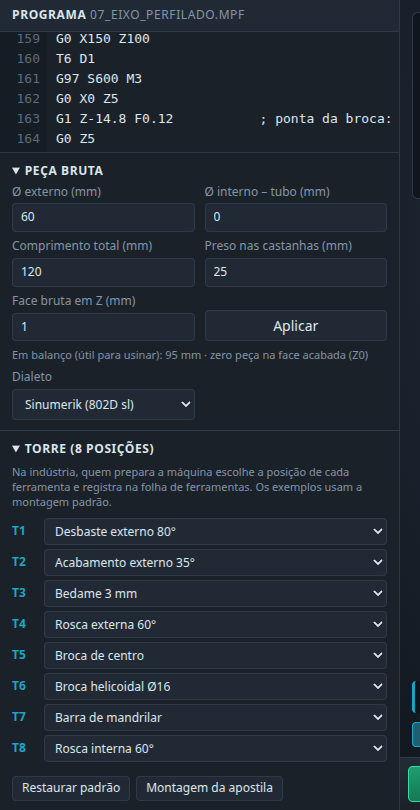
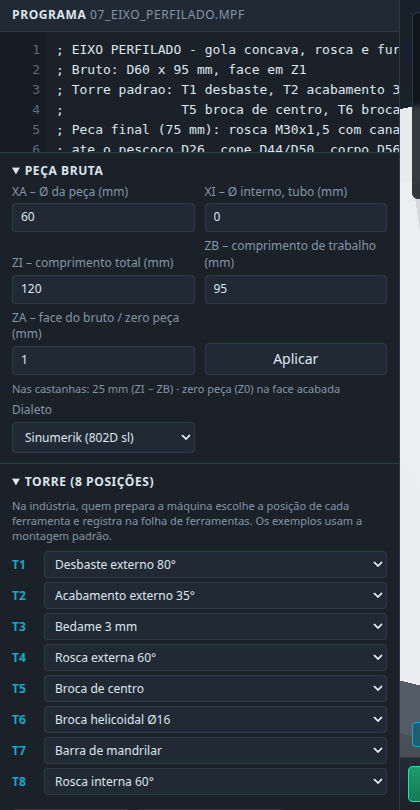
Peça bruta com os campos do SinuTrain (XA, XI, ZI, ZB, ZA)
O comprimento de trabalho (ZB, fora das castanhas) é digitado direto,
como no SinuTrain; o trecho preso na placa é calculado (ZI - ZB).
Significado do WORKPIECE confirmado por alunos.

diff --git a/shared/i18n.js b/shared/i18n.js
@@ -88,17 +88,17 @@ const pt = {
   modified: 'modificado',
   read_only_example: 'exemplo – salve com outro nome para guardar alterações',
   stock: 'Peça bruta',
-  stock_d: 'Ø externo (mm)',
-  stock_di: 'Ø interno – tubo (mm)',
-  stock_di_help: 'Diâmetro do furo do tubo. 0 = barra maciça',
-  stock_t: 'Comprimento total (mm)',
-  stock_c: 'Preso nas castanhas (mm)',
-  stock_c_help: 'Quanto do bruto fica dentro da placa. A ferramenta não pode passar daí (colisão com a placa)',
-  stock_f: 'Face bruta em Z (mm)',
-  stock_f_help: 'Sobremetal na face. O zero peça (Z0) é a face acabada; a face do bruto fica em Z+este valor',
-  stock_info: 'Em balanço (útil para usinar): {len} mm · zero peça na face acabada (Z0)',
+  stock_d: 'XA – Ø da peça (mm)',
+  stock_di: 'XI – Ø interno, tubo (mm)',
+  stock_di_help: 'Diâmetro do furo do tubo ("PIPE" no SinuTrain). 0 = barra maciça ("CYLINDER")',
+  stock_t: 'ZI – comprimento total (mm)',
+  stock_b: 'ZB – comprimento de trabalho (mm)',
+  stock_b_help: 'Quanto do bruto fica fora das castanhas (útil para usinar). O resto fica preso na placa; passar dele é colisão com a placa',
+  stock_f: 'ZA – face do bruto / zero peça (mm)',
+  stock_f_help: 'Onde fica a face do bruto. O zero peça (Z0) é a face acabada: ZA = 2 deixa 2 mm de sobremetal para facear',
+  stock_info: 'Nas castanhas: {clamp} mm (ZI − ZB) · zero peça (Z0) na face acabada',
   stock_bad: 'Peça bruta inválida: {msg}',
-  stock_bad_len: 'o comprimento em balanço (total − castanhas) precisa ficar entre 10 e 300 mm',
+  stock_bad_len: 'o comprimento de trabalho (ZB) precisa ficar entre 10 e 300 mm e deixar de 5 a 100 mm nas castanhas (ZI − ZB)',
   stock_bad_bore: 'o Ø interno precisa ser menor que o Ø externo (parede de pelo menos 1 mm)',
   ruler_ext: 'Ø ext',
   ruler_int: 'Ø int',
@@ -322,17 +322,17 @@ const en = {
   modified: 'modified',
   read_only_example: 'example – save under another name to keep changes',
   stock: 'Stock',
-  stock_d: 'Outer Ø (mm)',
-  stock_di: 'Inner Ø – tube (mm)',
-  stock_di_help: 'Bore of the tube. 0 = solid bar',
-  stock_t: 'Total length (mm)',
-  stock_c: 'Held in the jaws (mm)',
-  stock_c_help: 'How much of the stock is inside the chuck. The tool cannot go past it (chuck collision)',
-  stock_f: 'Raw face at Z (mm)',
-  stock_f_help: 'Face allowance. Work zero (Z0) is the finished face; the raw face is at Z+this value',
-  stock_info: 'Overhang (machinable): {len} mm · work zero at the finished face (Z0)',
+  stock_d: 'XA – part Ø (mm)',
+  stock_di: 'XI – inner Ø, tube (mm)',
+  stock_di_help: 'Bore of the tube ("PIPE" in SinuTrain). 0 = solid bar ("CYLINDER")',
+  stock_t: 'ZI – total length (mm)',
+  stock_b: 'ZB – working length (mm)',
+  stock_b_help: 'How much of the stock sticks out of the jaws (machinable). The rest is held in the chuck; going past it is a chuck collision',
+  stock_f: 'ZA – raw face / work zero (mm)',
+  stock_f_help: 'Where the raw face is. Work zero (Z0) is the finished face: ZA = 2 leaves 2 mm to face off',
+  stock_info: 'In the jaws: {clamp} mm (ZI − ZB) · work zero (Z0) at the finished face',
   stock_bad: 'Invalid stock: {msg}',
-  stock_bad_len: 'the overhang (total − jaws) must be between 10 and 300 mm',
+  stock_bad_len: 'the working length (ZB) must be between 10 and 300 mm and leave 5 to 100 mm in the jaws (ZI − ZB)',
   stock_bad_bore: 'the inner Ø must be smaller than the outer Ø (wall of at least 1 mm)',
   ruler_ext: 'Ø out',
   ruler_int: 'Ø in',

diff --git a/public/js/main.js b/public/js/main.js
@@ -452,17 +452,18 @@ const clampNum = (v, min, max, def) => {
 
 /**
  * Lê os campos da peça bruta. O modelo usa o comprimento em balanço (length);
- * na tela o aluno informa o total e quanto fica preso, como no SinuTrain.
+ * na tela o aluno informa, como no SinuTrain: XA (Ø), XI (tubo), ZI (total), ZB (de trabalho,
+ * fora das castanhas) e ZA (face do bruto); o trecho preso na placa é ZI − ZB.
  * Devolve { params } ou { error } (chave de tradução).
  */
 function readStockInputs() {
   const diameter = clampNum($('stockD').value, 5, 200, 50);
   const bore = clampNum($('stockDi').value, 0, 190, 0);
   const total = clampNum($('stockT').value, 15, 400, 105);
-  const clamp = clampNum($('stockC').value, 5, 100, 25);
+  const length = clampNum($('stockB').value, 0, 400, 80);
   const faceZ = clampNum($('stockF').value, 0, 10, 0);
-  const length = total - clamp;
-  if (length < 10 || length > 300) return { error: 'stock_bad_len' };
+  const clamp = total - length;
+  if (length < 10 || length > 300 || clamp < 5 || clamp > 100) return { error: 'stock_bad_len' };
   if (bore > 0 && bore > diameter - 2) return { error: 'stock_bad_bore' };
   const params = { diameter, length, faceZ, clamp };
   if (bore > 0) params.bore = bore;
@@ -474,14 +475,14 @@ function setStockInputs(s) {
   $('stockD').value = s.diameter;
   $('stockDi').value = s.bore || 0;
   $('stockT').value = s.length + clamp;
-  $('stockC').value = clamp;
+  $('stockB').value = s.length;
   $('stockF').value = s.faceZ;
   updateStockInfo();
 }
 
 function updateStockInfo() {
   const { params, error } = readStockInputs();
-  $('stockInfo').textContent = error ? tr('stock_bad', { msg: tr(error) }) : tr('stock_info', { len: fmtNum(params.length) });
+  $('stockInfo').textContent = error ? tr('stock_bad', { msg: tr(error) }) : tr('stock_info', { clamp: fmtNum(params.clamp) });
   $('stockInfo').classList.toggle('err', !!error);
 }
 
@@ -502,9 +503,8 @@ function announceWorkpiece(st) {
 function sameStock(a, b) {
   if (!a || !b) return false;
   const eq = (x, y) => Math.abs((x || 0) - (y || 0)) < 1e-6;
-  const clampA = Math.min(100, Math.max(5, a.clamp ?? 25));
   return eq(a.diameter, b.diameter) && eq(a.bore, b.bore) && eq(a.faceZ, b.faceZ) &&
-    eq(clampA, b.clamp) && eq(a.length + (a.clamp ?? 25) - clampA, b.length);
+    eq(a.clamp ?? 25, b.clamp) && eq(a.length, b.length);
 }
 
 function applyStock() {
@@ -530,7 +530,8 @@ function stockFromHeaderInputs(code, announce = true) {
   const st = stockFromProgram(code);
   if (!st) return false;
   if (announce) announceWorkpiece(st);
-  const clamp = st.clamp ?? clampNum($('stockC').value, 5, 100, 25);
+  // sem o trecho preso no programa ("; Bruto: D50 x 80"), mantém o que está na tela (ZI − ZB)
+  const clamp = st.clamp ?? (readStockInputs().params?.clamp ?? 25);
   setStockInputs({
     diameter: st.diameter,
     bore: st.bore || 0,
@@ -799,7 +800,7 @@ $('chkRulers').onchange = (e) => {
   rulers.setEnabled(e.target.checked);
   saveSettings({ rulers: e.target.checked });
 };
-for (const id of ['stockD', 'stockDi', 'stockT', 'stockC', 'stockF']) $(id).addEventListener('input', updateStockInfo);
+for (const id of ['stockD', 'stockDi', 'stockT', 'stockB', 'stockF']) $(id).addEventListener('input', updateStockInfo);
 $('chkSection').onchange = (e) => {
   scene.setSection(e.target.checked);
   saveSettings({ section: e.target.checked });

diff --git a/test/e2e/simulator.spec.js b/test/e2e/simulator.spec.js
@@ -103,20 +103,20 @@ test('peça bruta lida do cabeçalho do programa', async ({ page }) => {
   await page.selectOption('#programSelect', 'ex:03_bola_fanuc.nc');
   await page.click('#btnOpen');
   await expect(page.locator('#stockD')).toHaveValue('40');
-  // o cabeçalho dá o comprimento em balanço (80); na tela: total = 80 + 25 nas castanhas
+  // o cabeçalho dá o comprimento de trabalho (ZB = 80); total ZI = 80 + 25 nas castanhas
   await expect(page.locator('#stockT')).toHaveValue('105');
-  await expect(page.locator('#stockC')).toHaveValue('25');
+  await expect(page.locator('#stockB')).toHaveValue('80');
   await expect(page.locator('#stockDi')).toHaveValue('0');
-  await expect(page.locator('#stockInfo')).toContainText('Em balanço (útil para usinar): 80 mm');
+  await expect(page.locator('#stockInfo')).toContainText('Nas castanhas: 25 mm');
 });
 
-test('peça bruta: tubo e comprimento preso nas castanhas', async ({ page }) => {
+test('peça bruta: tubo e comprimento de trabalho (ZB)', async ({ page }) => {
   await page.locator('details.settings summary').first().click();
   await page.fill('#stockD', '50');
   await page.fill('#stockDi', '20');
   await page.fill('#stockT', '90');
-  await page.fill('#stockC', '30');
-  await expect(page.locator('#stockInfo')).toContainText('60 mm');
+  await page.fill('#stockB', '60');
+  await expect(page.locator('#stockInfo')).toContainText('Nas castanhas: 30 mm');
   await page.click('#btnApplyStock');
   // barra de mandrilar direto no tubo, sem furar antes
   await setCode(page, 'G18 G90 G95 DIAMON\nT7 D1\nG97 S800 M3\nG0 X22 Z2\nG1 Z-20 F0.1\nG0 Z5\nG0 X150 Z100\nM30');
@@ -232,7 +232,7 @@ N170 M2`);
   // a peça bruta veio do WORKPIECE
   await expect(page.locator('#stockD')).toHaveValue('82.55');
   await expect(page.locator('#stockT')).toHaveValue('120');
-  await expect(page.locator('#stockC')).toHaveValue('20');
+  await expect(page.locator('#stockB')).toHaveValue('100');
   const msgs = page.locator('#messages');
   await expect(msgs).toContainText('Peça bruta do WORKPIECE: Ø82.55');
   await expect(msgs).toContainText('Avanço F0.02 abaixo do usual para T1');

diff --git a/public/index.html b/public/index.html
@@ -77,7 +77,7 @@
           </datalist>
           <label data-i18n-title="stock_di_help"><span data-i18n="stock_di"></span><input id="stockDi" type="number" min="0" max="190" step="any" value="0" /></label>
           <label><span data-i18n="stock_t"></span><input id="stockT" type="number" min="15" max="400" step="any" value="105" /></label>
-          <label data-i18n-title="stock_c_help"><span data-i18n="stock_c"></span><input id="stockC" type="number" min="5" max="100" step="any" value="25" /></label>
+          <label data-i18n-title="stock_b_help"><span data-i18n="stock_b"></span><input id="stockB" type="number" min="10" max="300" step="any" value="80" /></label>
           <label data-i18n-title="stock_f_help"><span data-i18n="stock_f"></span><input id="stockF" type="number" min="0" max="10" step="0.5" value="1" /></label>
           <button id="btnApplyStock" class="btn" data-i18n="apply"></button>
           <div class="stock-info" id="stockInfo"></div>

diff --git a/shared/gcode.js b/shared/gcode.js
@@ -522,7 +522,8 @@ export function parseProgram(text, options = {}) {
  * Devolve { diameter, length (em balanço), faceZ, clamp, bore?, total } ou null.
  * Ex. de aluno: WORKPIECE(,,,"CYLINDER",0,2,120,100,82.55) -> Ø82,55, face em Z2,
  * 120 mm de bruto, 100 mm usináveis (20 mm na placa).
- * A interpretação de ZI/ZB positivos como comprimentos ainda deve ser conferida num SinuTrain.
+ * Confirmado por alunos (2026-11-11): XA = Ø da peça, ZA = zero peça (face do bruto),
+ * ZI = comprimento total, ZB = comprimento de trabalho (fora das castanhas).
  */
 export function parseWorkpiece(text) {
   const m = String(text).match(/WORKPIECE\s*\((.*)\)/i);

diff --git a/README.md b/README.md
@@ -10,10 +10,10 @@ G-code, aperta **Cycle Start** e vê a ferramenta usinando a peça em 3D (Three.
 | ![Bucha pronta na vista Lateral: réguas Z e Ø, leitura dos diâmetros e cota entre duas faces](docs/img/reguas-lateral.png) | ![Eixo perfilado pronto em 3D com meio corte, mostrando a gola e o furo](docs/img/peca-pronta.png) |
 | Passe o mouse para ler Z, Ø externo e Ø interno; clique para medir comprimentos. | Ao separar a peça no corte, ela aparece sozinha em destaque. |
 
-<img src="docs/img/bruto-e-torre.png" alt="Painéis da peça bruta (Ø, tubo, comprimento total, castanhas) e da torre de 8 posições" width="300" align="right">
+<img src="docs/img/bruto-e-torre.png" alt="Painéis da peça bruta (XA, XI, ZI, ZB, ZA) e da torre de 8 posições" width="300" align="right">
 
-**Peça bruta e torre configuráveis:** Ø externo (com bitolas em polegadas), tubo, comprimento total
-e preso nas castanhas; torre de 8 posições com a montagem padrão ou a da apostila do curso.
+**Peça bruta e torre configuráveis:** os mesmos campos do SinuTrain (XA, XI, ZI, ZB, ZA), com
+bitolas em polegadas; torre de 8 posições com a montagem padrão ou a da apostila do curso.
 O programa também pode definir a peça com `WORKPIECE(...)`, como no SinuTrain.
 
 <br clear="right">
@@ -161,11 +161,20 @@ clique para fixar uma referência e medir a distância até outro ponto (ΔZ).
 
 ### Peça bruta
 
-Em "Peça bruta": Ø externo, Ø interno (tubo; 0 = barra maciça), comprimento total, comprimento preso
-nas castanhas e face bruta em Z (sobremetal; o zero peça é a face acabada, Z0). O comprimento em
-balanço (total − castanhas) é o útil para usinar; passar dele é colisão com a placa.
+Em "Peça bruta", os mesmos campos do SinuTrain:
 
-O cabeçalho do programa ajusta a peça bruta ao abrir. O segundo número é o comprimento **em balanço**:
+| Campo | Significado |
+|---|---|
+| **XA** | Ø da peça |
+| **XI** | Ø interno do tubo (0 = barra maciça) |
+| **ZI** | Comprimento total do bruto |
+| **ZB** | Comprimento de trabalho (fora das castanhas); passar dele é colisão com a placa |
+| **ZA** | Face do bruto; o zero peça (Z0) é a face acabada (ZA = 2 deixa 2 mm para facear) |
+
+O trecho preso na placa é ZI − ZB.
+
+O programa também ajusta a peça bruta: com `WORKPIECE(,,,"CYLINDER",0,ZA,ZI,ZB,XA)` (ou `"PIPE"` com XI),
+como no SinuTrain, ou com um comentário cujo segundo número é o comprimento de trabalho (ZB):
 
 ```
 ; Bruto: D50 x 80 mm, face em Z1

diff --git a/docs/LIMITACOES.md b/docs/LIMITACOES.md
@@ -16,7 +16,6 @@ O planejamento geral está em [PLANO.md](PLANO.md).
 | **G54–G57 sem deslocamento real** | O zero da peça é sempre a face; esquecer o G54 não causa erro | Coordenadas de máquina + tabela de origens; ver Etapa 0 do PLANO |
 | **Sem corretores de ferramenta** (`D` só escolhe o corte do bedame: D1 esquerdo, D2 direito) | Não dá para treinar preset nem correção de desgaste | Tabela de ferramentas com geometria/desgaste X/Z por posição |
 | **Chanfro/arredondamento e contorno** (`CHF=`, `CHR=`, `RND=`, `RNDM=`, `ANG=`) não executados | O bloco roda sem o chanfro/raio, **com aviso** | Inserir o elemento entre dois movimentos (PLANO, Etapa 1) |
-| **`WORKPIECE`**: ZI/ZB positivos lidos como comprimentos a partir de ZA; ZB vira o comprimento em balanço | Pode diferir do SinuTrain em programas com outra convenção | Conferir com um programa completo do SinuTrain |
 | **Zero peça só na face direita** (`G58`/Z positivo dos exercícios 19–22 da apostila não funciona) | Programas com zero na face esquerda não batem com a peça | PLANO, Etapa 1 |
 | **Rosca G33 só reta** (sem cônica, sem múltiplas entradas, sem `SF=`) | Roscas simples funcionam; as demais não | Acrescentar parâmetros conforme o 802D sl |
 | **Fanuc só o básico** (G0–G3, U/W, T0101, G28, G50 S, G96/G97, G98/G99) | Programas Fanuc com ciclos não rodam | Decisão do projeto: Fanuc é secundário (PLANO, decisão 4) |
